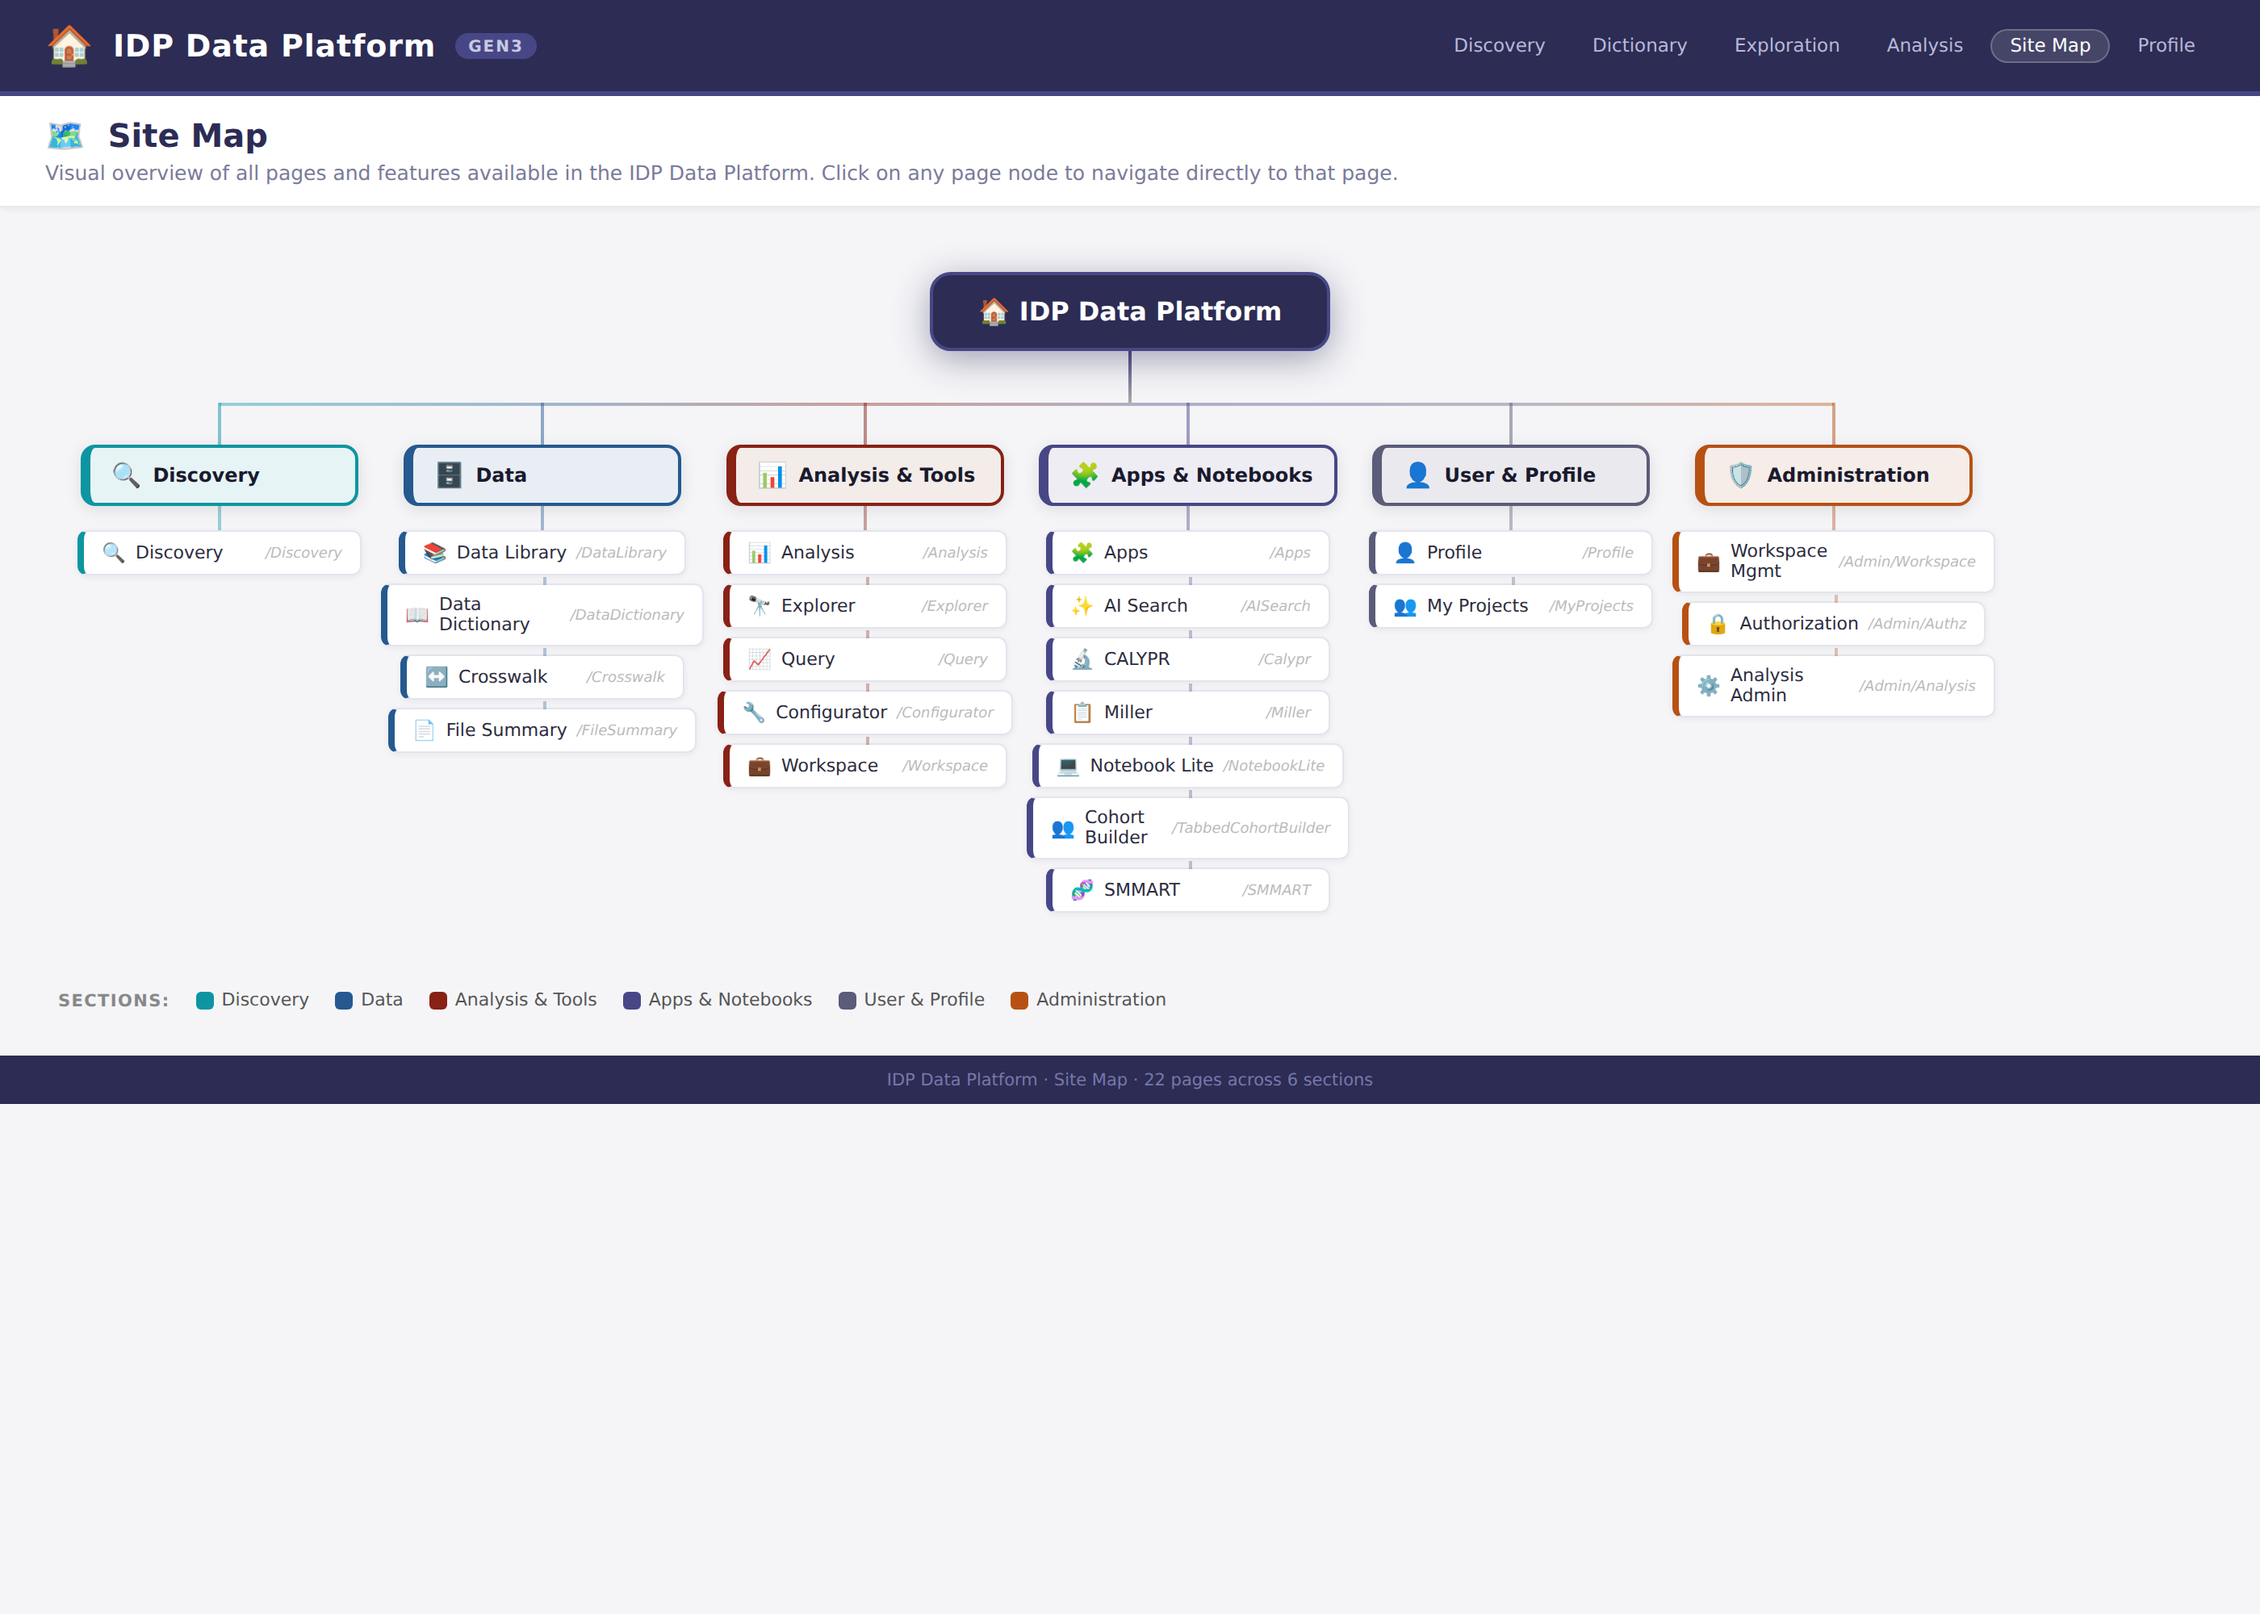
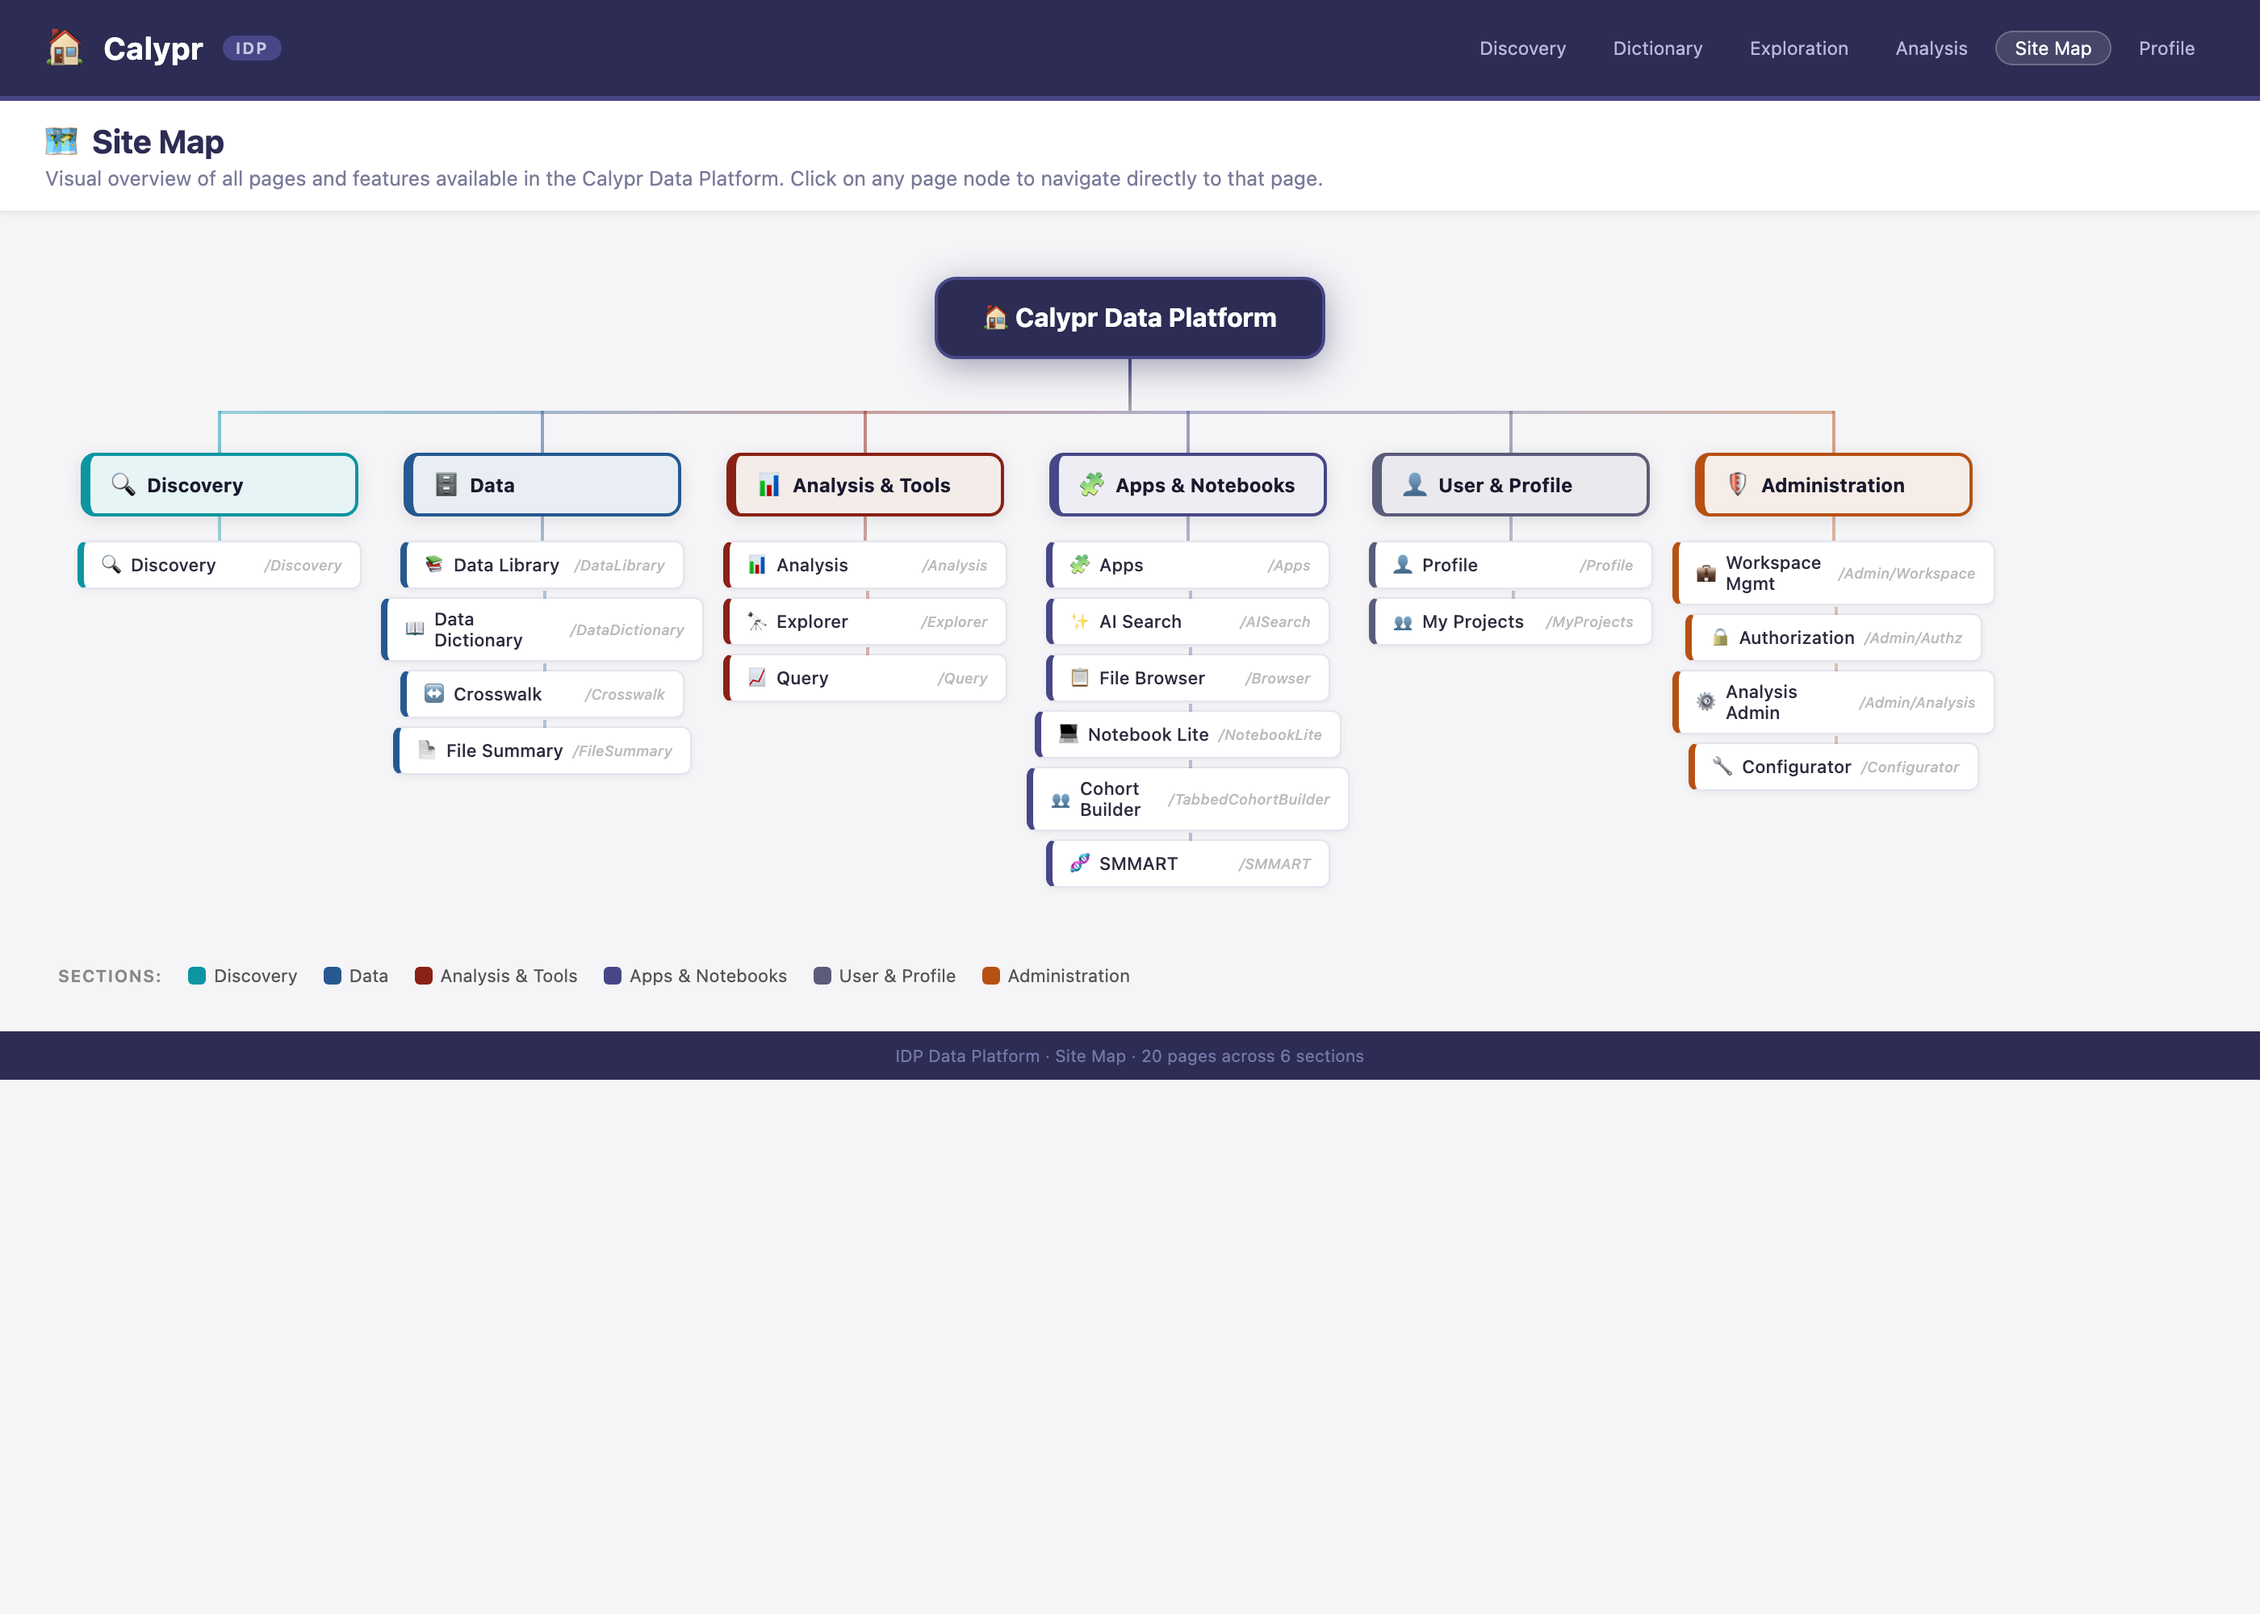
updated sitemap

Changed region(s): [[0.0311, 0.155, 0.87, 0.558], [0.0, 0.589, 1.0, 0.682], [0.0, 0.0, 1.0, 0.124]]

diff --git a/docs/Overview/sitemap-template.html b/docs/Overview/sitemap-template.html
@@ -154,8 +154,6 @@ const SECTIONS = [
       { label: 'Analysis',    href: '/Analysis',    icon: '📊' },
       { label: 'Explorer',    href: '/Explorer',    icon: '🔭' },
       { label: 'Query',       href: '/Query',       icon: '📈' },
-      { label: 'Configurator',href: '/Configurator',icon: '🔧' },
-      { label: 'Workspace',   href: '/Workspace',   icon: '💼' },
     ],
   },
   {
@@ -163,8 +161,7 @@ const SECTIONS = [
     pages: [
       { label: 'Apps',           href: '/Apps',               icon: '🧩' },
       { label: 'AI Search',      href: '/AISearch',           icon: '✨' },
-      { label: 'CALYPR',         href: '/Calypr',             icon: '🔬' },
-      { label: 'Miller',         href: '/Miller',             icon: '📋' },
+      { label: 'File Browser',         href: '/Browser',             icon: '📋' },
       { label: 'Notebook Lite',  href: '/NotebookLite',       icon: '💻' },
       { label: 'Cohort Builder', href: '/TabbedCohortBuilder',icon: '👥' },
       { label: 'SMMART',         href: '/SMMART',             icon: '🧬' },
@@ -183,6 +180,8 @@ const SECTIONS = [
       { label: 'Workspace Mgmt', href: '/Admin/Workspace', icon: '💼' },
       { label: 'Authorization',  href: '/Admin/Authz',     icon: '🔒' },
       { label: 'Analysis Admin', href: '/Admin/Analysis',  icon: '⚙' },
+      { label: 'Configurator',href: '/Configurator',icon: '🔧' },
+
     ],
   },
 ];
@@ -235,8 +234,8 @@ const pageCount = SECTIONS.reduce((s, sec) => s + sec.pages.length, 0);
 const html = `
 <div class="page-header">
   <span style="font-size:24px;">🏠</span>
-  <span class="logo-text">IDP Data Platform</span>
-  <span class="logo-badge">Gen3</span>
+  <span class="logo-text">Calypr</span>
+  <span class="logo-badge">idp</span>
   <div class="nav-pills">
     ${NAV_ITEMS.map(n => `<span class="nav-pill${n==='Site Map'?' active':''}">${esc(n)}</span>`).join('\n    ')}
   </div>
@@ -244,14 +243,14 @@ const html = `
 
 <div class="sub-header">
   <h1>🗺&nbsp; Site Map</h1>
-  <p>Visual overview of all pages and features available in the IDP Data Platform.
+  <p>Visual overview of all pages and features available in the Calypr Data Platform.
      Click on any page node to navigate directly to that page.</p>
 </div>
 
 <div class="diagram-wrap">
   <!-- Root node -->
   <div class="root-row">
-    <div class="root-node">🏠 IDP Data Platform</div>
+    <div class="root-node">🏠 Calypr Data Platform</div>
   </div>
   <div class="root-connector"></div>
 

diff --git a/packages/sampleCommons/src/pages/SiteMap.tsx b/packages/sampleCommons/src/pages/SiteMap.tsx
@@ -279,19 +279,7 @@ const sections: SectionDef[] = [
         label: 'Query',
         href: '/Query',
         icon: <MdShowChart size={14} />,
-      },
-      {
-        id: 'p-configurator',
-        label: 'Configurator',
-        href: '/Configurator',
-        icon: <MdBuild size={14} />,
-      },
-      {
-        id: 'p-workspace',
-        label: 'Workspace',
-        href: '/Workspace',
-        icon: <MdWork size={14} />,
-      },
+      }
     ],
   },
   {
@@ -315,15 +303,9 @@ const sections: SectionDef[] = [
         icon: <MdAutoAwesome size={14} />,
       },
       {
-        id: 'p-calypr',
-        label: 'CALYPR',
-        href: '/Calypr',
-        icon: <MdBiotech size={14} />,
-      },
-      {
         id: 'p-miller',
-        label: 'Miller',
-        href: '/Miller',
+        label: 'File Browser',
+        href: '/Browser',
         icon: <MdTableChart size={14} />,
       },
       {
@@ -394,6 +376,19 @@ const sections: SectionDef[] = [
         href: '/Admin/Analysis',
         icon: <MdSettings size={14} />,
       },
+      {
+        id: 'p-configurator',
+        label: 'Configurator',
+        href: '/Configurator',
+        icon: <MdBuild size={14} />,
+      },
+      {
+        id: 'p-workspace',
+        label: 'Workspace',
+        href: '/Workspace',
+        icon: <MdWork size={14} />,
+      },
+
     ],
   },
 ];
